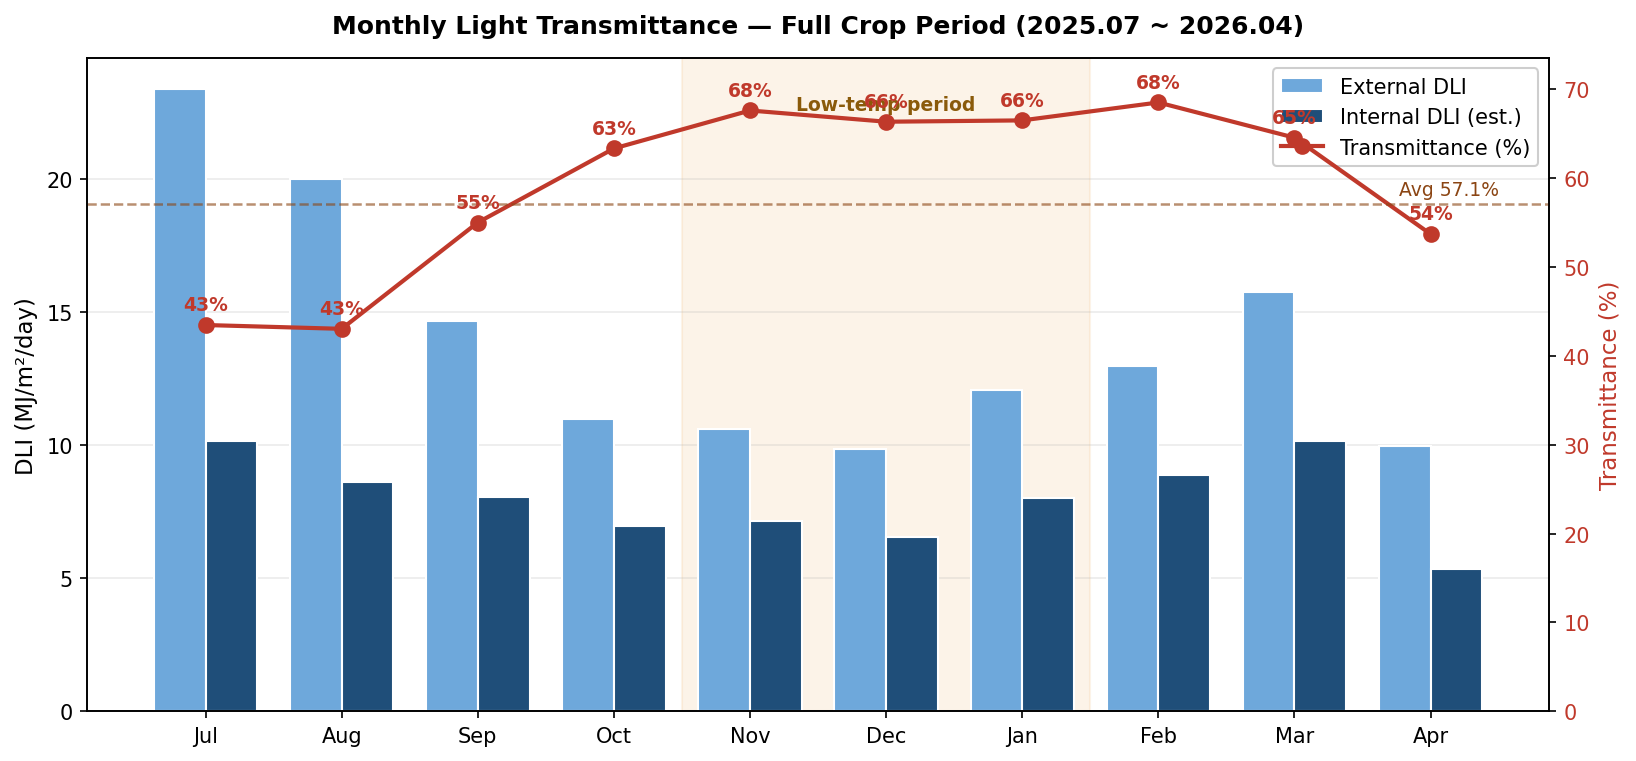
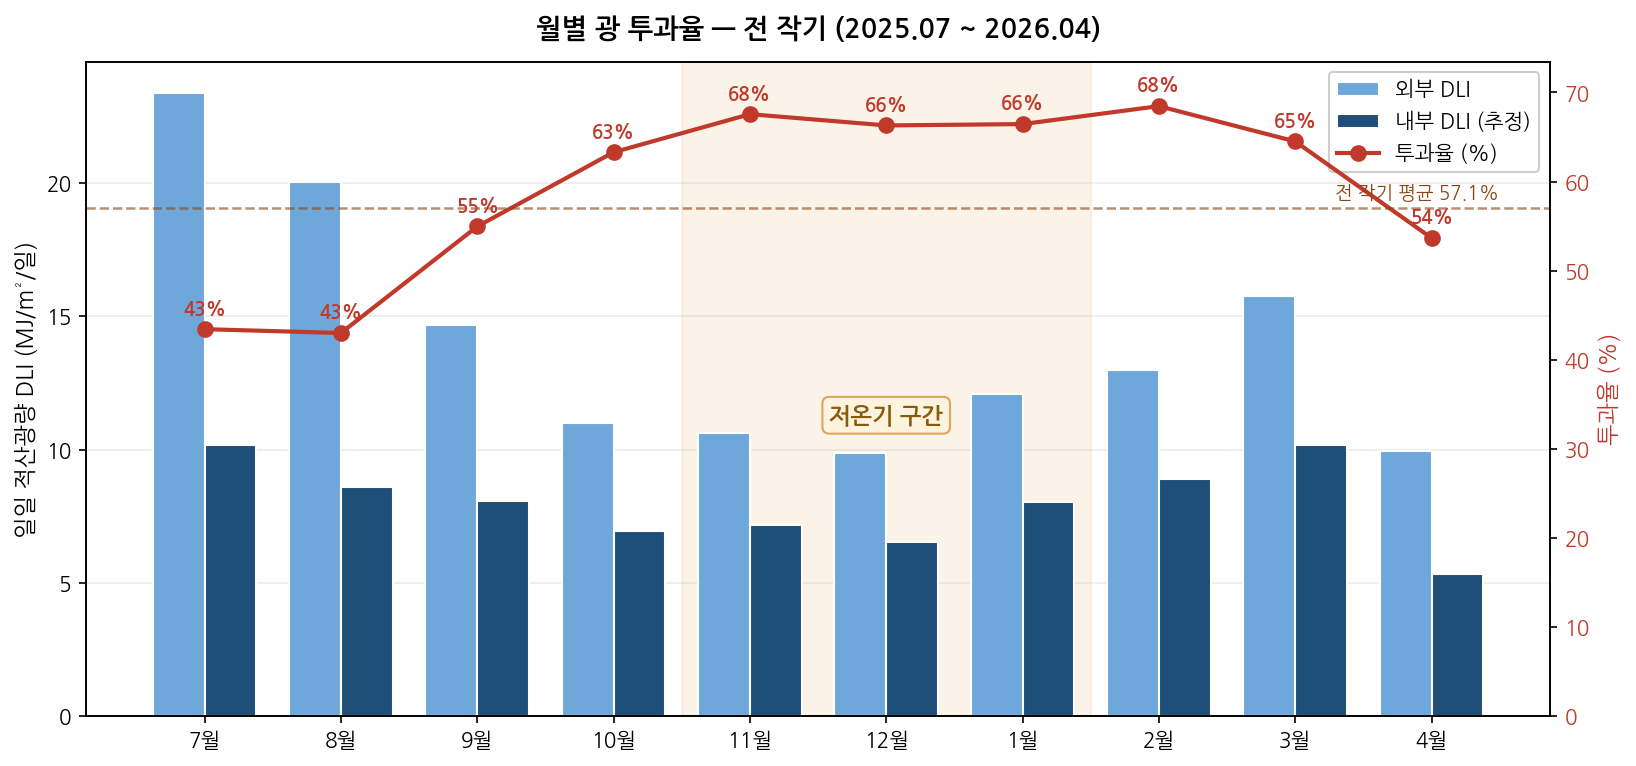
월별 투과율 차트 한국어화 + 저온기 라벨 위치 조정
- matplotlib 레이블 전체 한국어로 변경 (외부/내부 DLI, 투과율, 저온기 구간 등)
- NanumGothic 폰트 적용 (apt fonts-nanum 사용)
- 저온기 구간 라벨을 차트 중앙부에 박스 스타일로 배치하여 투과율 수치와 겹침 해소
- 차트 제목: '월별 광 투과율 — 전 작기 (2025.07 ~ 2026.04)'

https://claude.ai/code/session_011jLKnZxWi45F2Jked6zm6A

diff --git a/work/scripts/generate_light_comparison_monthly.py b/work/scripts/generate_light_comparison_monthly.py
@@ -1,5 +1,5 @@
 """
-월별 외부 DLI vs 내부 DLI 및 투과율 차트 생성.
+월별 외부 DLI vs 내부 DLI 및 투과율 차트 생성 (한국어).
 
 입력: 원본_데이터/export.csv (Priva 5분 간격 수집)
 출력: site_images/light_comparison_monthly.png
@@ -16,109 +16,114 @@ from pathlib import Path
 import pandas as pd
 import matplotlib.pyplot as plt
 import matplotlib as mpl
+from matplotlib import font_manager
 
 BASE = Path(__file__).parent.parent.parent
 DATA = BASE / '원본_데이터' / 'export.csv'
 OUT  = BASE / 'site_images' / 'light_comparison_monthly.png'
 
 GLASS_T = 0.70
-ALPHA1, ALPHA2, ALPHA3 = 0.50, 0.55, 0.45  # shading coefficients per curtain
+ALPHA1, ALPHA2, ALPHA3 = 0.50, 0.55, 0.45
 INTERVAL_SEC = 300  # 5 min
 
-MONTH_LABELS = {6:'Jun',7:'Jul',8:'Aug',9:'Sep',10:'Oct',11:'Nov',
-                12:'Dec',1:'Jan',2:'Feb',3:'Mar',4:'Apr'}
+MONTH_LABELS_KO = {6:'6월',7:'7월',8:'8월',9:'9월',10:'10월',11:'11월',
+                   12:'12월',1:'1월',2:'2월',3:'3월',4:'4월'}
+
+
+def _setup_korean_font():
+    """NanumGothic이 있으면 적용"""
+    for fpath in ('/usr/share/fonts/truetype/nanum/NanumGothic.ttf',
+                  '/usr/share/fonts/truetype/nanum/NanumGothicBold.ttf'):
+        if Path(fpath).exists():
+            font_manager.fontManager.addfont(fpath)
+    mpl.rcParams['font.family'] = 'NanumGothic'
+    mpl.rcParams['axes.unicode_minus'] = False
 
 
 def main():
+    _setup_korean_font()
+
     df = pd.read_csv(DATA, sep=';', header=0, skiprows=[1,2])
     df = df.rename(columns={'Unnamed: 0': 'datetime'})
     df['datetime'] = pd.to_datetime(df['datetime'], format='%d-%m-%Y %H:%M:%S', errors='coerce')
     df = df.dropna(subset=['datetime']).copy()
 
-    # 작기 기간 (2025-07-09 ~ 2026-04-03 — 4월 말 철거 전까지 데이터)
     df = df[(df['datetime'] >= '2025-07-01') & (df['datetime'] < '2026-05-01')].copy()
 
-    # 투과율 (시점별)
     c1 = df['meas curtain 1'].clip(0,100).fillna(0)
     c2 = df['meas curtain 2'].clip(0,100).fillna(0)
     c3 = df['meas curtain 3'].clip(0,100).fillna(0)
     trans = GLASS_T * (1 - c1/100*ALPHA1) * (1 - c2/100*ALPHA2) * (1 - c3/100*ALPHA3)
     df['trans'] = trans
 
-    # 외부·내부 에너지(MJ/m²)
     rad = df['radiation'].clip(lower=0).fillna(0)
     df['ext_MJ'] = rad * INTERVAL_SEC / 1e6
     df['int_MJ'] = rad * trans * INTERVAL_SEC / 1e6
 
-    # 월별 집계
     df['ym'] = df['datetime'].dt.to_period('M')
     g = df.groupby('ym').agg(
         ext_sum=('ext_MJ','sum'),
         int_sum=('int_MJ','sum'),
         days=('datetime', lambda s: s.dt.date.nunique()),
     ).reset_index()
-    g['ext_dli'] = g['ext_sum'] / g['days']    # MJ/m²/day
+    g['ext_dli'] = g['ext_sum'] / g['days']
     g['int_dli'] = g['int_sum'] / g['days']
     g['trans_pct'] = g['int_sum'] / g['ext_sum'] * 100
-    g['label'] = g['ym'].dt.month.map(MONTH_LABELS)
+    g['label'] = g['ym'].dt.month.map(MONTH_LABELS_KO)
 
     print(g[['ym','days','ext_dli','int_dli','trans_pct']].to_string(index=False))
-
-    # 전 작기 평균 투과율
     overall_trans = g['int_sum'].sum() / g['ext_sum'].sum() * 100
     print(f"\n전 작기 평균 투과율: {overall_trans:.1f}%")
 
     # ═══ 차트 ═══
-    mpl.rcParams['font.family'] = 'DejaVu Sans'
     fig, ax1 = plt.subplots(figsize=(11, 5.2))
 
     x = range(len(g))
     width = 0.38
 
-    b1 = ax1.bar([i-width/2 for i in x], g['ext_dli'], width, label='External DLI',
+    b1 = ax1.bar([i-width/2 for i in x], g['ext_dli'], width, label='외부 DLI',
                  color='#6EA8DB', edgecolor='white')
-    b2 = ax1.bar([i+width/2 for i in x], g['int_dli'], width, label='Internal DLI (est.)',
+    b2 = ax1.bar([i+width/2 for i in x], g['int_dli'], width, label='내부 DLI (추정)',
                  color='#1F4E79', edgecolor='white')
 
-    ax1.set_ylabel('DLI (MJ/m²/day)', fontsize=11)
+    ax1.set_ylabel('일일 적산광량 DLI (MJ/m²/일)', fontsize=11)
     ax1.set_xticks(list(x))
     ax1.set_xticklabels(g['label'])
     ax1.grid(axis='y', alpha=0.25)
     ax1.set_axisbelow(True)
 
-    # 투과율 — 오른쪽 축
     ax2 = ax1.twinx()
     ln = ax2.plot(list(x), g['trans_pct'], color='#C0392B', marker='o',
-                  linewidth=2, markersize=7, label='Transmittance (%)')
+                  linewidth=2, markersize=7, label='투과율 (%)')
     for xi, v in zip(x, g['trans_pct']):
         ax2.text(xi, v + 1.2, f'{v:.0f}%', ha='center', va='bottom',
                  fontsize=9, color='#C0392B', fontweight='bold')
-    ax2.set_ylabel('Transmittance (%)', fontsize=11, color='#C0392B')
+    ax2.set_ylabel('투과율 (%)', fontsize=11, color='#C0392B')
     ax2.tick_params(axis='y', labelcolor='#C0392B')
     ax2.set_ylim(0, max(45, g['trans_pct'].max()+5))
 
-    # 저온기 음영 (11/12 ~ 1/7 = Nov-Dec-Jan 대략)
-    lowtemp_months = ['Nov', 'Dec', 'Jan']
+    # 저온기 음영 (11~1월)
+    lowtemp_months = ['11월', '12월', '1월']
     lowtemp_idx = [i for i, lbl in enumerate(g['label']) if lbl in lowtemp_months]
     if lowtemp_idx:
         left = min(lowtemp_idx) - 0.5
         right = max(lowtemp_idx) + 0.5
         ax1.axvspan(left, right, color='#F2C080', alpha=0.18, zorder=0)
-        ax1.text((left+right)/2, ax1.get_ylim()[1]*0.92, 'Low-temp period',
-                 ha='center', fontsize=9, color='#8A5A0A', fontweight='bold')
+        ax1.text((left+right)/2, ax1.get_ylim()[1]*0.45, '저온기 구간',
+                 ha='center', fontsize=11, color='#8A5A0A', fontweight='bold',
+                 bbox=dict(boxstyle='round,pad=0.3', facecolor='#FFF4DE',
+                           edgecolor='#D4A050', alpha=0.9))
 
-    # 전체 작기 평균 투과율 라인
     ax2.axhline(overall_trans, color='#8B4513', linestyle='--', linewidth=1.2, alpha=0.6)
-    ax2.text(len(g)-0.5, overall_trans+0.5, f'Avg {overall_trans:.1f}%',
+    ax2.text(len(g)-0.5, overall_trans+0.5, f'전 작기 평균 {overall_trans:.1f}%',
              ha='right', va='bottom', fontsize=9, color='#8B4513')
 
-    # 범례 합치기
     lines = [b1, b2, ln[0]]
     labels = [l.get_label() for l in lines]
     ax1.legend(lines, labels, loc='upper right', fontsize=10, framealpha=0.95)
 
-    ax1.set_title('Monthly Light Transmittance — Full Crop Period (2025.07 ~ 2026.04)',
-                  fontsize=12, fontweight='bold', pad=12)
+    ax1.set_title('월별 광 투과율 — 전 작기 (2025.07 ~ 2026.04)',
+                  fontsize=13, fontweight='bold', pad=12)
 
     OUT.parent.mkdir(exist_ok=True)
     fig.tight_layout()
